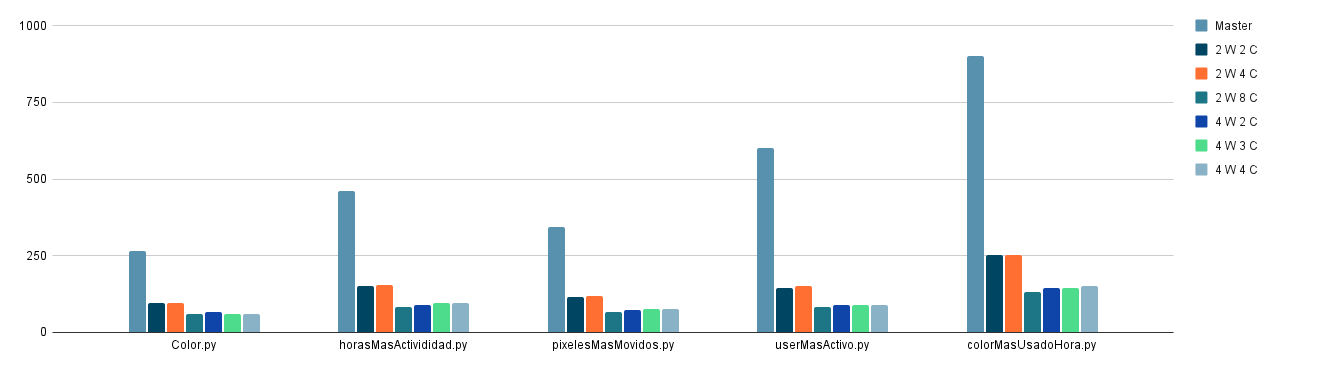
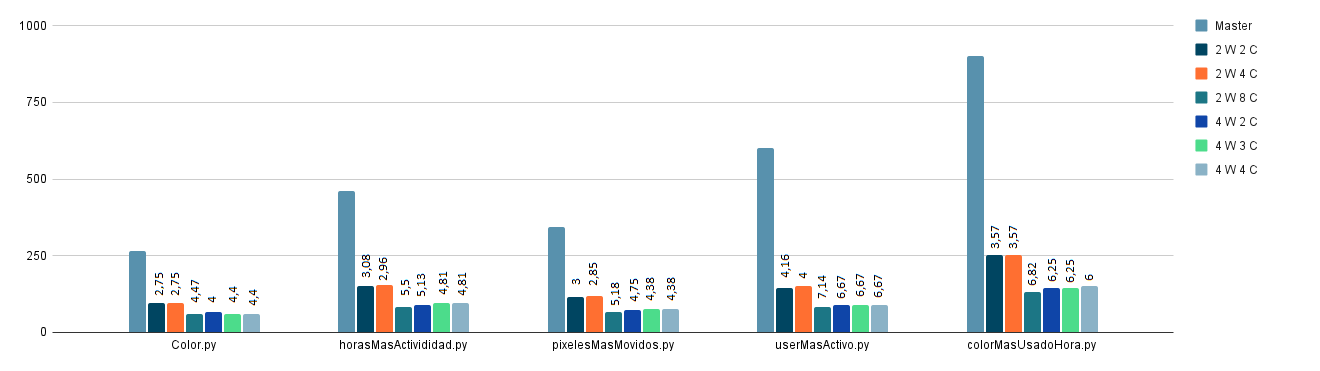
Fix formatting and add performance section

diff --git a/index.html b/index.html
@@ -79,8 +79,7 @@
                 <p>Como mención honorífica, tenemos la bandera de Canada, que no lograron completar porque los usuarios estaban cambiando todo el rato la hoja de alce de su bandera.</p>
                 <iframe width="560" height="315" src="https://www.youtube.com/embed/TyVXmpHQOqk?si=18fsSQeev1p3YlRd&amp;playback_rate=1.5" title="YouTube video player" frameborder="0" allow="accelerometer; autoplay; clipboard-write; encrypted-media; gyroscope; picture-in-picture; web-share" allowfullscreen></iframe>
             </div>
-        </div>
-       
+        </div>       
     </div>
     <!--Para cada apartado del readme haremos un div con un nombre-->
     <div id="ctn-codigo">
@@ -103,9 +102,27 @@
         <h3><a href="https://github.com/YeF4n/rPlaceAnalysis/blob/main/scripts/colorMasUsadoHora.py">colorMasUsadoHora.py</a></h3>
         <p>Utiliza de nuevo la columna timestampt y por cada hora de cada día muestra en forma de gráfico de lineas los 10 colores que más se han utilizado . Hemos establecido el límite superior de la gráfica a 1500000 elementos para poder apreciar la diferencia entre los valores debido a que el valor #FFFFFF al final de la gráfica toma un valor exorbitado.</p>
     </div>
+
+    <div id="ctn-performance">
+        <h2>Evaluación del rendimiento</h2>
+        <p>Como mejor ha funcionado ha sido con 2 workers y 8 cores, algo que era esperable, ya que es la que utilizaba el mayor número de nodos.</p>
+        <img src="img/web/Gráficas_tiempos.png">
+    </div>
+
     <div id="ctn-infraestructura">
         <h2>Infraestructura</h2>
+        <p>Para el desarrollo del proyecto hemos utilizado las siguientes herramientas:</p>
+        <ul>
+            <li><i>Github</i>: Control de versiones, almacenamiento de datos y setup de la página web (github pages).</li>
+            <li><i>Google Cloud</i>: Almacenamiento del csv y los códigos y ejecución de los códigos.</li>
+            <li><i>Matplotlib</i>: Librería de Python para generar gráficas.</li>
+            <li><i>Python</i>: Lenguaje de programación utilizado para el desarrollo de los códigos.</li>
+            <li><i>HTML/JavaScript</i>: Programación del freont-end de la página web.</li>
+            <li><i>Pyspark</i>: Biblioteca de Python que se utiliza como interfaz para Apache Spark. Con PySpark, podemos realizar operaciones en datasets y aprovechar la programación funcional paralela.</li>
+            <li><i>Visual Code</i>: Editor de código fuente para la depuración, control integrado de Git, resaltado de sintaxis, finalización inteligente de código, fragmentos y refactorización de código.</li>
+        </ul>
     </div>
+
     <div id="ctn-tutorial-spark">
         <h2>Cómo ejecutar PySpark por Local</h2>
         <p>Antes de nada necesitaremos una cuenta de Google Cloud con saldo, un proyecto de Cloud (el predeterminado sirve), un bucket que contenga una carpeta llamada input con el csv anteriormente mencionado y los .py descargados en el bucket, en el mismo directorio que la carpeta input.</p>
@@ -141,7 +158,7 @@
         <p>Este comando ejecuta un script de Apache Spark usando el programa spark-submit. En este caso, pondremos en $script el nombre del script de Spark que deseas ejecutar. </p>
         <pre>
             <code class="languague-bash">
-                $ spark-submit $script
+                $ spark-submit #script
             </code>
         </pre>
 
@@ -156,7 +173,7 @@
         <p>A continuación, ejecutamos el siguiente comando para establecer BUCKET como el bucket que creamos con anterioridad,</p>
         <pre>
             <code class="languague-bash">
-                $ BUCKET=gs://$yourBUCKET
+                $ BUCKET=gs://#yourBUCKET
             </code>
         </pre>
         <p>Y ahora, para ejecutar cada uno de los códigos tendríamos que realizar lo siguiente: Los tres primeros al generar gráficas con <i>Matplotlib</i> necesitamos pasarle como parámetro el ID del bucket donde queremos que lo guarde.</p>
@@ -164,20 +181,20 @@
         <p>Ejecutar color.py:</p>
         <pre>
             <code class="languague-bash">
-                spark-submit $numero-workers $numero-ejecutores $BUCKET/color.py $BUCKET/input $nombre-archivo-salida $ID-bucket
+                spark-submit #numero-workers #numero-ejecutores $BUCKET/color.py $BUCKET/input #nombre-archivo-salida #ID-bucket
             </code>
         </pre>
         <p>Ejecutar colorMasUsadoHora:</p>
         <pre>
             <code class="languague-bash">
-                spark-submit $numero-workers $numero-ejecutores $BUCKET/colorMasUsadoHora.py $BUCKET/input $BUCKET/$nombre-archivo-salida $ID-bucket
+                spark-submit #numero-workers #numero-ejecutores $BUCKET/colorMasUsadoHora.py $BUCKET/input $BUCKET/#nombre-archivo-salida #ID-bucket
             </code>
         </pre>
 
         <p>Ejecutar horasMasActividad.py:</p>
         <pre>
             <code class="languague-bash">
-                spark-submit $numero-workers $numero-ejecutores $BUCKET/horasMasActividad.py $BUCKET/input $BUCKET/$nombre-archivo-salida $ID-bucket
+                spark-submit #numero-workers #numero-ejecutores $BUCKET/horasMasActividad.py $BUCKET/input $BUCKET/#nombre-archivo-salida #ID-bucket
             </code>
         </pre>
 
@@ -186,24 +203,33 @@
         <p>Ejecutar pixelesMasMovidos.py:</p>
         <pre>
             <code class="languague-bash">
-                spark-submit $numero-workers $numero-ejecutores $BUCKET/pixelesMasMovidos.py $BUCKET/input $BUCKET/$nombre-archivo-salida
+                spark-submit #numero-workers #numero-ejecutores $BUCKET/pixelesMasMovidos.py $BUCKET/input $BUCKET/#nombre-archivo-salida
             </code>
         </pre>
 
         <p>Ejecutar userMasActivo.py:</p>
         <pre>
             <code class="languague-bash">
-                spark-submit $numero-workers $numero-ejecutores $BUCKET/userMasActivo.py $BUCKET/input $BUCKET/$nombre-archivo-salida
+                spark-submit #numero-workers #numero-ejecutores $BUCKET/userMasActivo.py $BUCKET/input $BUCKET/#nombre-archivo-salida
             </code>
         </pre>
 
     </div>
-    <div id="ctn-performance">
-        <h2>Evaluación del rendimiento</h2>
+
+    <div id="ctn-advanced-features">
+        
     </div>
+    
     <div id="ctn-conclusion">
         <h2>Conclusión</h2>
+        <p>Como era la primera vez desde 2017 que se hizo un r/Place, muchas personas desconocían este evento. Sin embargo, el número de participantes activos en el mural sólo fue en aumento. Ni los organizadores se esperaron tal acogida y es por ello mismo que tuvieron que aumentar dos veces el tamaño del mural.
+        Hay participantes de todo tipo, están los que entran solo a poner un píxel cualquiera de forma aleatoria cuando se acuerdan, están los que se vuelcan con una comunidad para hacer diseños, están los que no quieren que Canadá forme su bandera, están los que intentan competir contra los bots franceses...</p>
+        <p>Nuestro intención desde el principio ha sido intentar abstraer del historial de píxeles colocados datos interesantes, que llamen la atención, tanto para los que participaron en el evento como para los que no sabían de su existencia.
+        No podríamos haber logrado esto sin utilizar el procesamiento de Big Data por la increíble cantidad de información que teníamos a mano. Nos habría gustado compartir más gráficos con curiosidades, pero hicimos lo que pudimos con la limitación de que los datos sólo tuviesen 4 campos. </p>
+        <p>Esperamos que os haya gustado nuestra pequeña aportación al r/place 2022.</p>
     </div>
+
+
     <footer>
         <p>Proyecto realizado por:</p>
         <ul>      
